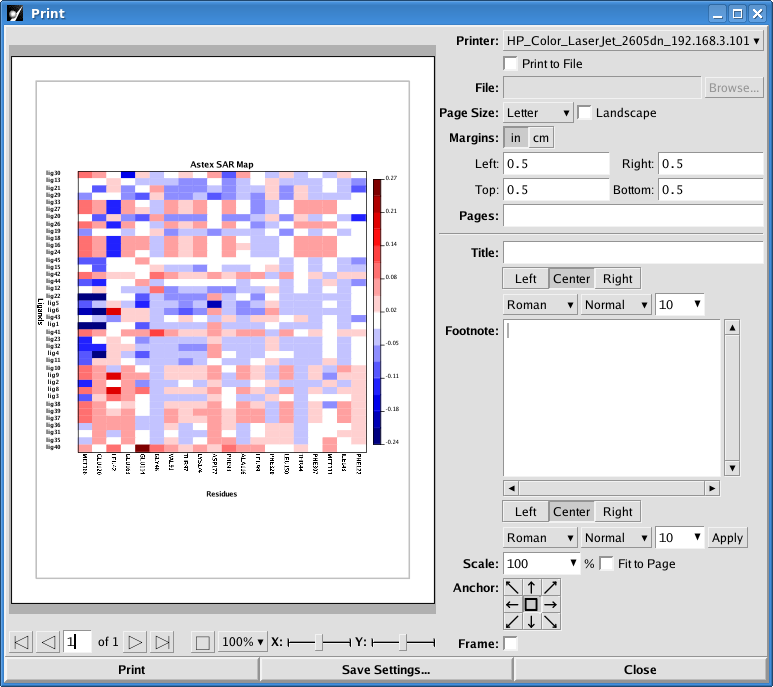
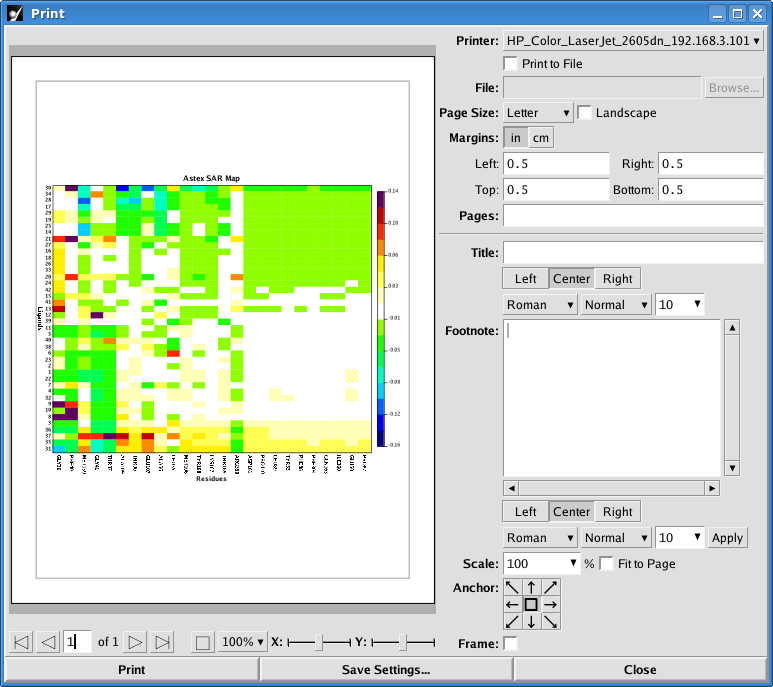
Update documentation.
git-svn-id: https://svn.quantumbioinc.com/MOEDivcon/trunk@6487 0241862a-156b-41b8-859c-7af79c85dedb

Changed region(s): [[0.031, 0.214, 0.5278, 0.7336]]

diff --git a/doc/help.html b/doc/help.html
@@ -677,24 +677,36 @@ pointers relevant for the MOEDivCon Integration Suit.
 
 <h3><a name="core-mmmin"></a>MM Minimization</h3>
 <p>
-
- An example moebatch call:
-
-<pre>
-&gt; moebatch -exec "run ['qbmmmin.svl', ['qmscore.mdb', 100]]" -exit
-</pre>
-
-Perform energy minimization using the OPLS-AA + Solvation forcefield
-on the complexes stored in the MOEDivCon QMScore database using the
-given weight on heavy atoms only.
+Misaligned atom coordinates can cause convergence problems in the DivCon 
+calculation.  Since it can be tedious to optimize
+a large set of complexes by hand, the MOEDivcon Integration Suite provides
+an SVL script that performs energy minimization using the OPLS-AA + Solvation 
+forcefield on the complexes stored in a MOEDivCon QMScore database with a
+user-supplied tether weight on the heavy atoms.
 <p>
 If the mode of the QMScore database is 'One-to-Many', it is changed to
 a 'Many-to-Many' database so that a new copy of the receptor is minimized
 with each pose and the resulting structures are stored in the database.
 <p>
-Note:  The new structures overwrite those currently stored in the database,
-so it is advised that you create a backup before calling the script.
+ An example moebatch call of the script:
+<pre>
+&gt; moebatch -exec "run ['qbmmmin.svl', ['qmscore.mdb', 100]]" -exit
+</pre>
+where the second argument, 100, is the tether weight.  The new minimized 
+structures overwrite those currently stored in the database,
+so it is advised that you create a backup copy of the database before 
+calling the script.
 
+<p>
+From the MOE documentation for MM:
+<blockquote>
+A quadratic force to the starting geometry is added to the atoms in an
+attempt to keep the resulting minimum close to the original coordinates. 
+A force constant of 300 is comparable to the strength of a bond. A tether
+value greater than or equal to 100 000 is interpreted to mean a fixed
+atom; that is, atoms that are tethered with a weight greater than or
+equal to 100 000 are frozen during the calculation. 
+</blockquote>
 <p>
 <warn>Warning:  Atoms that have been fixed or tethered via other MOE methods
 will affect the minimization calculation.</warn>
@@ -1344,22 +1356,34 @@ Two assumptions are made:
   <li>  The protein chain is the first chain in the receptor collection.
 </ul>
 
+The main function of the script is
+<pre>
+qb_Align [src, dest, ext, trim]
+</pre>
+where the arguments are 
+<table border="0" cellspacing="8">
+  <tr><th> src <td> token <td> source directory.
+   <tr><th> dest <td> token <td> destination directory.
+   <tr><th> ext <td> token <td> molecule file extension.  
+   <tr><th> trim <td> boolean <td> if true, delete leading or trailing residues.
+</table>
+<p>
+Supported extensions are pdb, moe, mol2, mdl_mol and macmod.  Trimming 
+the proteins so that they all have the same number of residues 
+(provided that there are no internal gaps) improves the reliability of
+the PLS anaysis for the SAR heat map.
+<p>
 There are two methods to execute the SVL script.  The first uses moebatch from a
 shell command line in the parent directory of the source and destination
-subdirectories.  The extension identifies the molecule file
-type (supported extensions are pdb, moe, mol2, mdl_mol and macmod).
+subdirectories.  An example:
 <pre>
-&gt; moebatch -exec "run ['qbalign.svl', ['srcdir', 'destdir', 'ext']]" -exit
-</pre>
-An example:
-<pre>
-&gt; moebatch -exec "run ['qbalign.svl', ['recs', 'alignrecs', 'pdb']]" -exit
+&gt; moebatch -exec "run ['qbalign.svl', ['recs', 'aligned', 'pdb', 1]]" -exit
 </pre>
 The other method is to call the function from MOE's SVL command line (assuming
 that moe was started in the parent directory of the source and destination
 subdirectories.
 <pre>
-svl&gt; qb_Align ['srcdir', 'destdir', 'ext']
+svl&gt; qb_Align ['recs', 'newrecs', 'mol2', 0]
 </pre>
 Finally, create a MOE database containing the aligned proteins.
 
@@ -1522,14 +1546,14 @@ easy to identify the residues that have the largest absolute effect on ligand
 binding.  Below is an example interaction heat map and associated surface for
 ligand 4.
 <p>
-<object id="QBHeatMapInterPoly" title="QB Heat Map Interaction"
-data="images/qbheatmapinterastexpoly.png" type=image/png>
+<object id="QBHeatMapInterMono" title="QB Heat Map Interaction"
+data="images/qbheatmapinterastexmono.png" type=image/png>
 QB Heat Map Interaction
 </object>
 <p>
 
-<object id="SurfaceInterPoly" title="Surface Interaction" width=956
-data="images/surfaceinterastexlig4poly.png" type=image/png>
+<object id="SurfaceInterMono" title="Surface Interaction" width=956
+data="images/surfaceinterastexlig30mono.png" type=image/png>
 Surface Interaction
 </object>
 <p>
@@ -1540,13 +1564,13 @@ and repulsive), which highlights residues that are most critical to discriminati
 between more and less potent ligands (see the PWD section for more details).
 Below is an example SAR heat map and associated surface for ligand 6.
 <p>
-<object id="QBHeatMapInterMono" title="QB Heat Map SAR"
-data="images/qbheatmapsarastexmono.png" type=image/png>
+<object id="QBHeatMapInterPoly" title="QB Heat Map SAR"
+data="images/qbheatmapsarastexpoly.png" type=image/png>
 QB Heat Map SAR
 </object>
 <p>
-<object id="SurfaceSARMono" title="Surface SAR" width=956
-data="images/surfacesarastexlig6mono.png" type=image/png>
+<object id="SurfaceSARPoly" title="Surface SAR" width=956
+data="images/surfacesarastexlig37poly.png" type=image/png>
 Surface SAR
 </object>
 <p>
